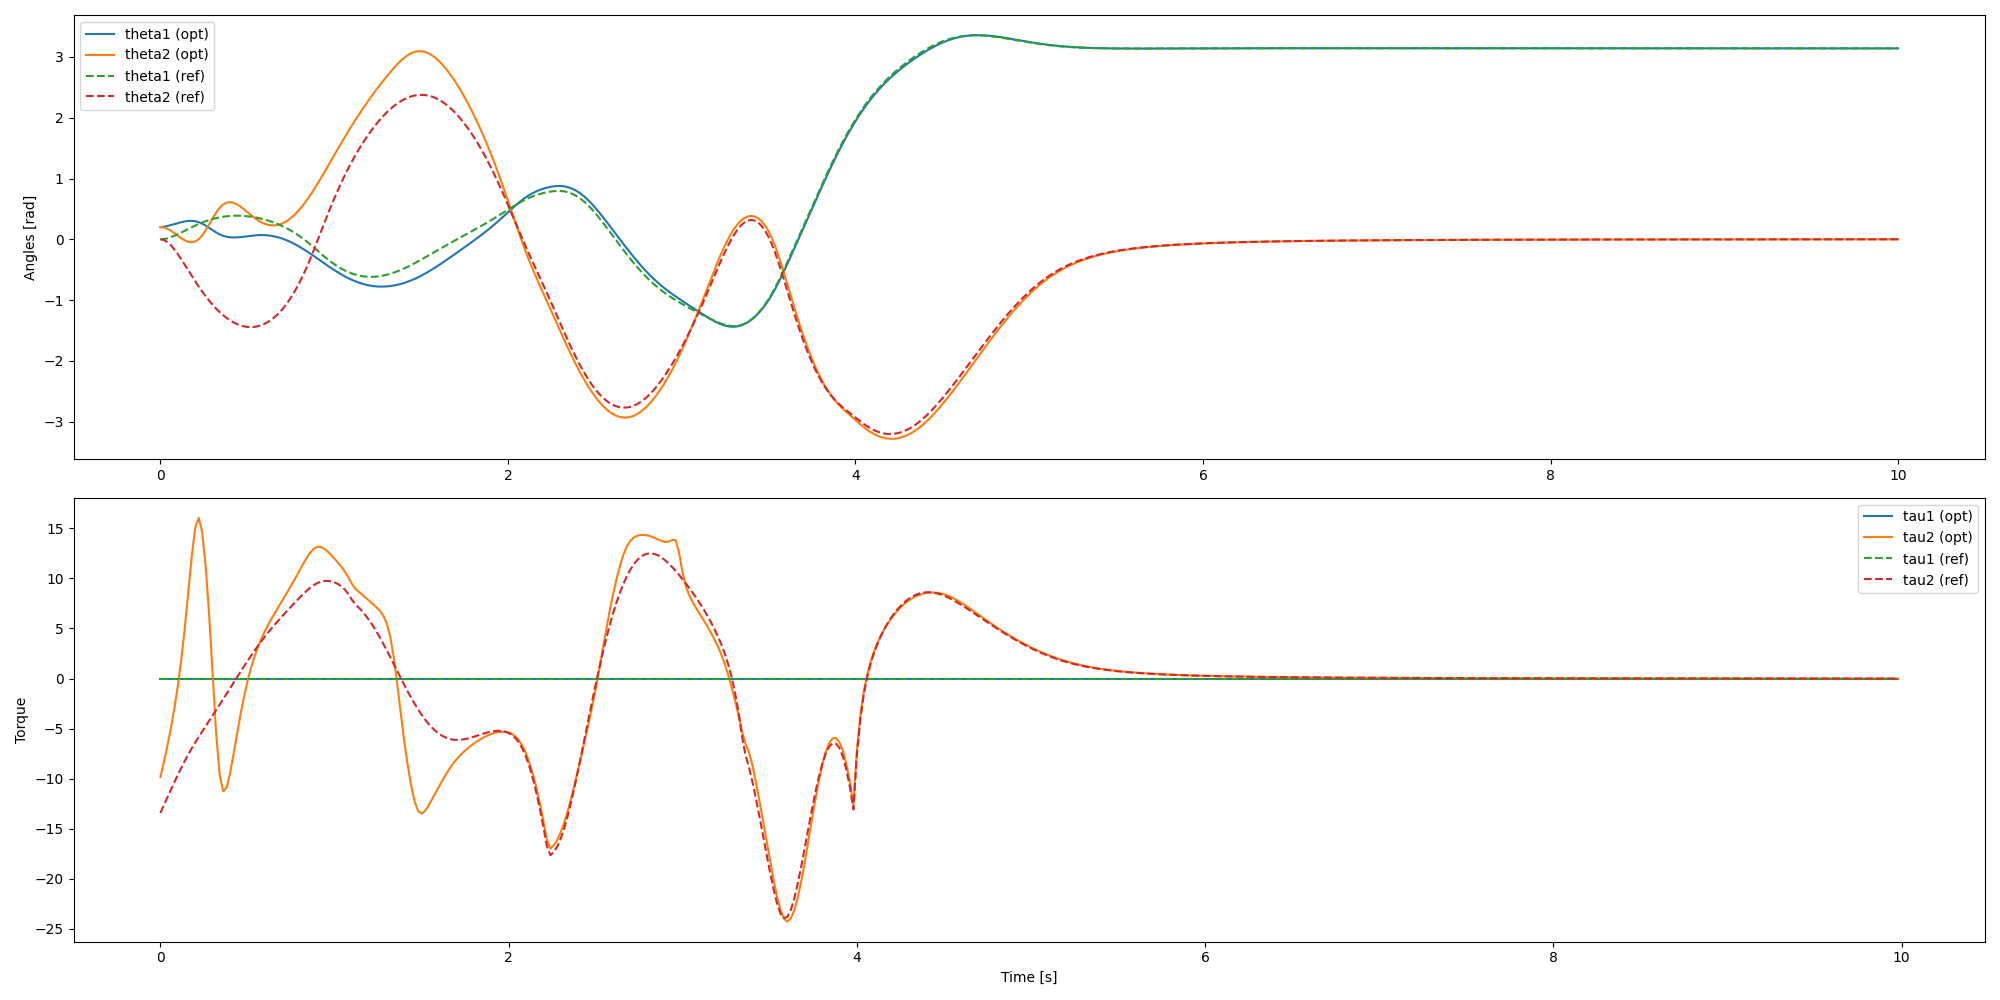
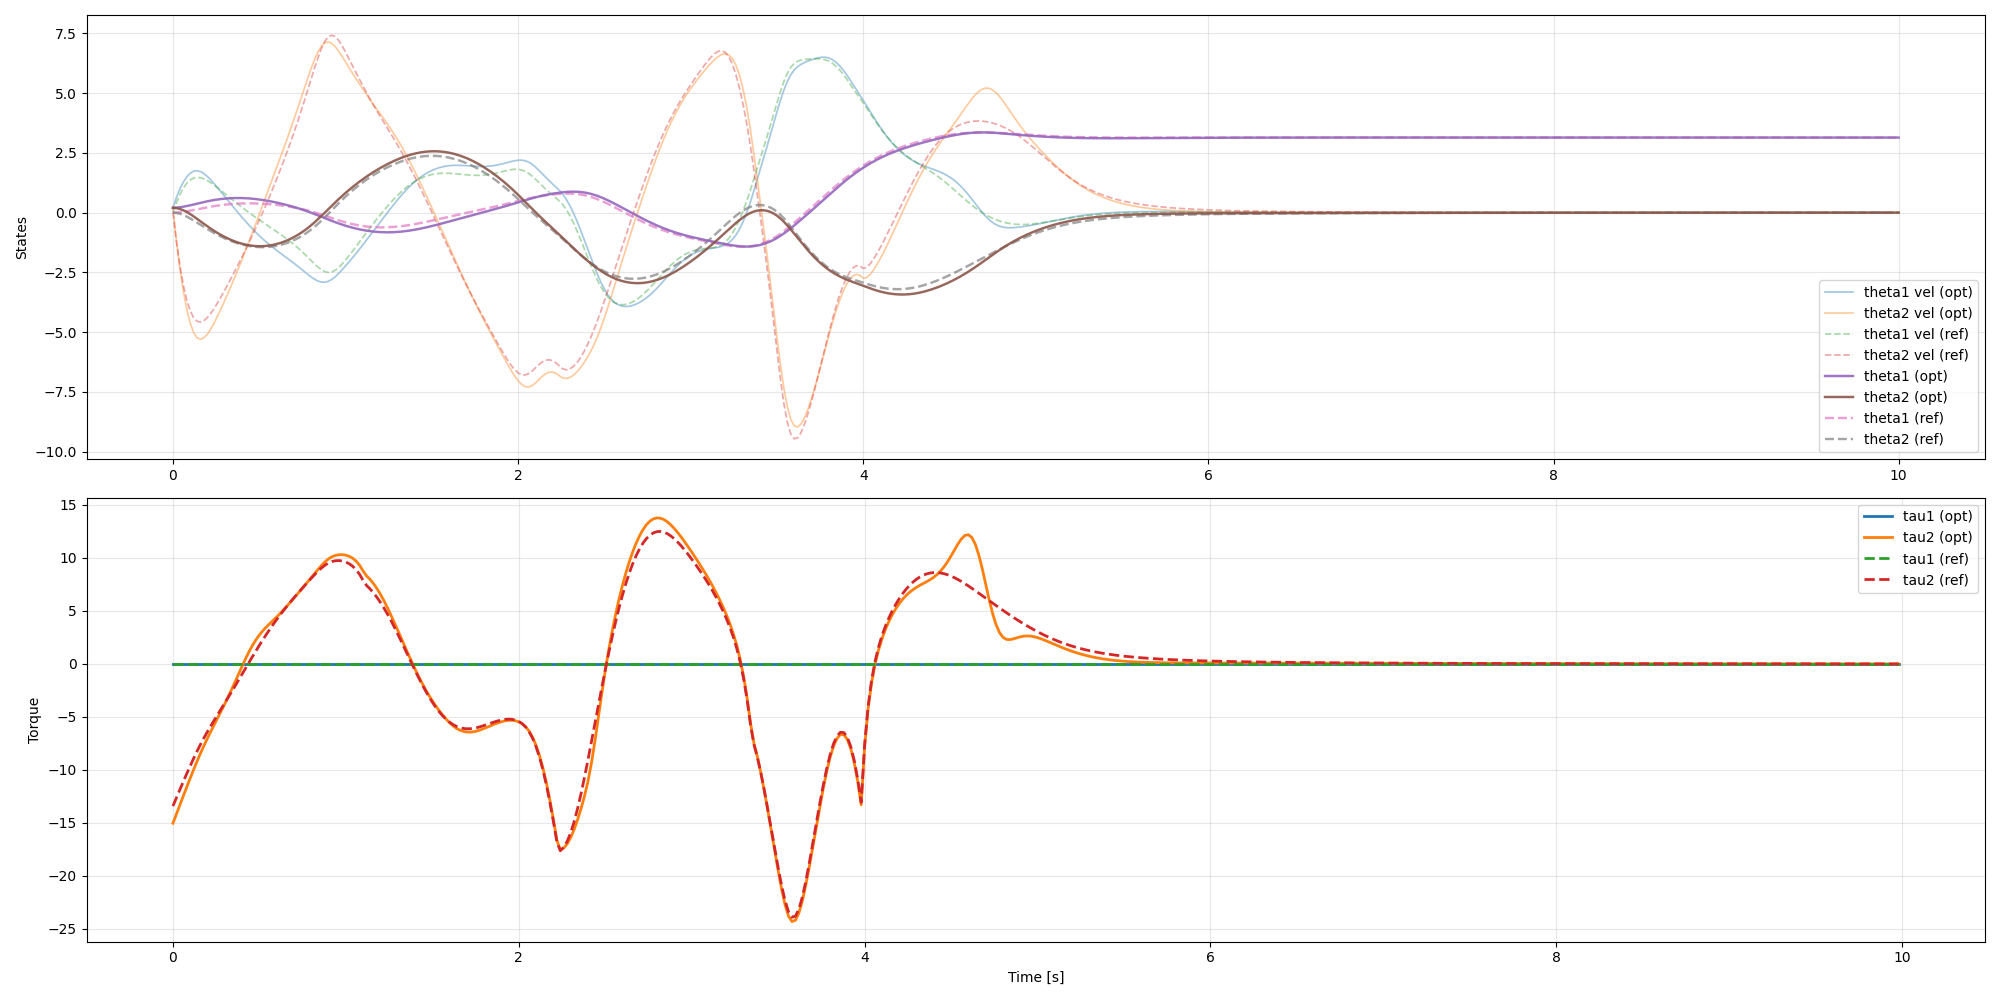
small tweaks for plots

diff --git a/main.py b/main.py
@@ -43,7 +43,7 @@ def task_1():
         x0, x_ref, u_ref, 
         max_iters=5000, 
         tol=1e-4, 
-        gamma_0=0.02,
+        gamma_0=0.05,
         plot_armijo_iters=5
     )
     
@@ -66,8 +66,8 @@ def task_2():
         x0, x_ref, u_ref, 
         max_iters=5000, 
         tol=1e-4, 
-        gamma_0=0.02,
-        plot_armijo_iters=5
+        gamma_0=0.1,
+        plot_armijo_iters=7
     )
     
     # Save trajectory for later use
@@ -79,7 +79,7 @@ def task_2():
     )
     
     print("Generating trajectory plots...")
-    tg.plot_results(t_ref, x_ref, u_ref, x_opt, u_opt, history)
+    tg.generate_report_graphs(t_ref, x_ref, u_ref, x_opt, u_opt, history)
     
     print("Generating animation...")    
     create_and_save_animation(
@@ -100,7 +100,7 @@ def task_2():
 def task_3():
     
     data = np.load("trajectories_npz/acrobot_optimal_trajectory.npz")
-    x_opt, u_opt, t_ref = data["x"], data["u"], data["t"]
+    x_ref, u_ref, t_ref = data["x"], data["u"], data["t"]
     
     
     x_track, u_track  = tt.LQR_tracking(x_opt, u_opt, t_ref)
@@ -113,34 +113,7 @@ def task_3():
     # For plotting controls, use t_ref[:-1] since controls have N-1 elements
     t_control = t_ref[:-1]
     
-    # Plot 1: Reference Trajectory
-    plt.figure(figsize=(10,5))
-    plt.subplot(2,1,1)
-    plt.plot(t_ref, x_ref[:,0], label='theta1 (ref)')
-    plt.plot(t_ref, x_ref[:,1], label='theta2 (ref)')
-    plt.ylabel('Angles [rad]'); plt.legend()
-    plt.subplot(2,1,2)
-    plt.plot(t_control, u_ref[:,0], label='tau1 (ref)')
-    plt.plot(t_control, u_ref[:,1], label='tau2 (ref)')
-    plt.xlabel('Time [s]'); plt.ylabel('Torque'); plt.legend()
-    plt.tight_layout()
-
-    # Plot 2: Optimal vs. Reference Trajectory
-    plt.figure(figsize=(10,6))
-    plt.subplot(2,1,1)
-    plt.plot(t_ref, x_opt[:,0], label='theta1 (opt)')
-    plt.plot(t_ref, x_opt[:,1], label='theta2 (opt)')
-    plt.plot(t_ref, x_ref[:,0], '--', label='theta1 (ref)')
-    plt.plot(t_ref, x_ref[:,1], '--', label='theta2 (ref)')
-    plt.legend(); plt.ylabel('Angles [rad]')
-
-    plt.subplot(2,1,2)
-    plt.plot(t_control, u_opt[:,0], label='tau1 (opt)')
-    plt.plot(t_control, u_opt[:,1], label='tau2 (opt)')
-    plt.plot(t_control, u_ref[:,0], '--', label='tau1 (ref)')
-    plt.plot(t_control, u_ref[:,1], '--', label='tau2 (ref)')
-    plt.legend(); plt.xlabel('Time [s]'); plt.ylabel('Torque')
-    plt.tight_layout()
+    plot_tracking(x_ref, u_ref, x_track, u_track, t_ref, "figures/lqr/tracking_dx")
     
     return
 
@@ -151,7 +124,7 @@ def task_4():
     data = np.load("trajectories_npz/acrobot_optimal_trajectory.npz")
     x_ref, u_ref, t_ref = data["x"], data["u"], data["t"]
     
-    test_disturbances = [0.1, 0.3]
+    test_disturbances = [0.1]
     
     # Actual initial state from the reference trajectory
     x0 = x_ref[0].copy()
@@ -189,7 +162,7 @@ def plot_tracking(x_ref, u_ref, x_opt, u_opt, t_ref, name="figures/unnamed"):
     plt.plot(t_ref, x_opt[:,1], label='theta2 (opt)', linewidth=2.,  alpha=0.9, zorder=3)
     plt.plot(t_ref, x_ref[:,0], '--', label='theta1 (ref)', linewidth=2.,  alpha=0.7, zorder=2)
     plt.plot(t_ref, x_ref[:,1], '--', label='theta2 (ref)', linewidth=2.,  alpha=0.7, zorder=2)
-    plt.legend(); plt.grid(True, alpha=0.3); plt.ylabel('Angles [rad]')
+    plt.legend(); plt.grid(True, alpha=0.3); plt.ylabel('Angles [rad]'); plt.tight_layout()
 
     plt.subplot(2,1,2)
     plt.plot(t_control, u_opt[:,0], label='tau1 (opt)', linewidth=2.)
@@ -197,7 +170,8 @@ def plot_tracking(x_ref, u_ref, x_opt, u_opt, t_ref, name="figures/unnamed"):
     plt.plot(t_control, u_ref[:,0], '--', label='tau1 (ref)', linewidth=2.)
     plt.plot(t_control, u_ref[:,1], '--', label='tau2 (ref)', linewidth=2.)
     plt.legend(); plt.grid(True, alpha=0.3); plt.xlabel('Time [s]'); plt.ylabel('Torque')
-  
+    plt.tight_layout()
+    
     plt.savefig(name + "_ref.png")
     
     # Norm error
@@ -206,13 +180,13 @@ def plot_tracking(x_ref, u_ref, x_opt, u_opt, t_ref, name="figures/unnamed"):
     control_error_padded = np.append(np.abs(u_opt[:, 1] - u_ref[:,1]), np.nan)
     plt.plot(t_ref, control_error_padded, label='Control error (norm)')
     plt.xlabel('Time [s]'); plt.grid(True, alpha=0.3); plt.ylabel('Error Magnitude'); plt.legend()
-    
+    plt.tight_layout()
     plt.savefig(name + "_err.png")
     plt.show()
 
 
 if __name__ == '__main__':
     
-    task_4()
+    task_2()
     
    

diff --git a/trajectory_generation.py b/trajectory_generation.py
@@ -13,13 +13,10 @@ nx = 4 #Dimension of state vector
 
 #   Cost Weights
 # Relaxed for tracking fully actuated reference with underactuated acrobot
-# Q = np.diag([130.0, 30.0, 0.0001 , 0.0001])  
-# R = np.diag([1e-6, 1.5])                  
-# Q_T = np.diag([130, 130., 1., 1.0])  
-
-Q = np.diag([10.0, 10.0, 0.0001 , 0.0001])  
-R = np.diag([1e-6, 0.01])                  
-Q_T = np.diag([20, 20., 1., 1.0])  
+Q = np.diag([130.0, 30.0, 0.0001 , 0.0001])  
+R = np.diag([1e-6, 1.5])                  
+Q_T = np.diag([130, 130., 1., 1.0])  
+ 
 
 
 def compute_equilibrium(u_target, theta_guess):
@@ -376,7 +373,12 @@ def newton_Algorithm(x0, x_ref, u_ref, max_iters, tol=1e-6, beta=0.7, c=0.5, gam
             plot_armijo_line_search(k, x_traj, u_traj, K, sigma, cost_k, 
                                    x_ref, u_ref, delta_J, gamma_i, 
                                    stepsizes_tested, costs_tested, c, beta)
-            
+        
+        if k == 1000:
+            plot_armijo_line_search(k, x_traj, u_traj, K, sigma, cost_k, 
+                                   x_ref, u_ref, delta_J, gamma_i, 
+                                   stepsizes_tested, costs_tested, c, beta)
+        
         # Convergence check
         cost_reduction = cost_k - cost_new
         x_traj, u_traj, cost_k = x_new, u_new, cost_new

diff --git a/trajectory_tracking.py b/trajectory_tracking.py
@@ -7,7 +7,7 @@ from scipy.linalg import solve_discrete_are
 
 def solve_mpc_tracking(x0, x_ref, u_ref, T):
     
-    T_hor = 30
+    T_hor = 75
     dt = 2e-2
     N = x_ref.shape[0]
     
